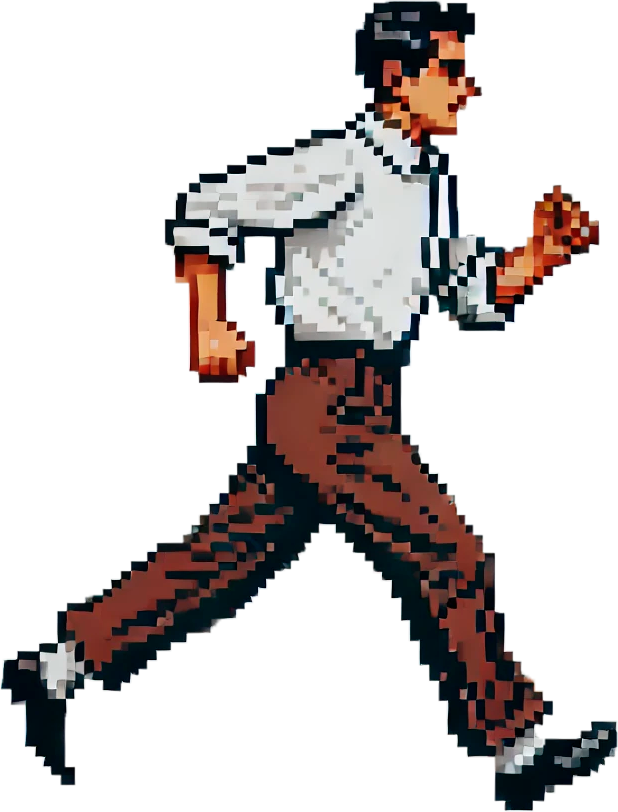
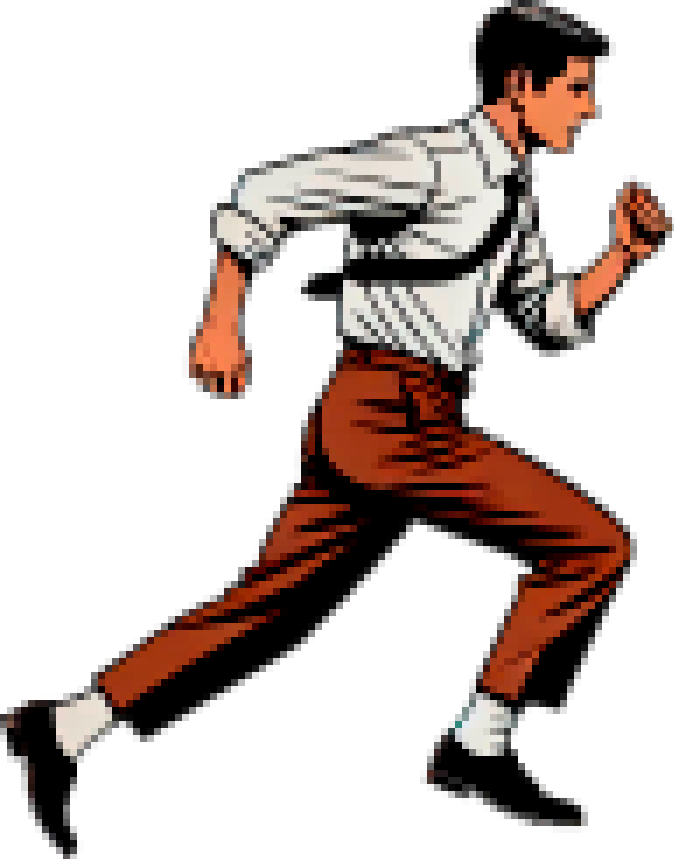
started code logic behind changing different sceneries of the game

diff --git a/javascript/games/game2.js b/javascript/games/game2.js
@@ -1,15 +1,19 @@
 /** game rules and scenery variables */
-let gameSpeed = 1, ms;
-let scenery = "subway";
+let gameSpeed = 1;
+let scenery = "subway", newScenery = "default";
+let fade = 0, fadeIn = true;
 let backgroundW, backgroundH, backgroundX, backgroundY;
 
-let floor_subway, floor_subway_bg, bg_subway;
+/** transitions between scenarios */
+let subwayX, subwayY, subwayW, subwayH;
+
+let floor_subway, floor_subway_bg, bg_front_subway, bg_subway;
 let floors = [];
 
 /** character variables */
 let charX, charY, charW, charH, charYDefault;
 let charSlidingH, charSlidingY;
-let char_running_R, char_sliding, char_mid_sliding, char_jumping; //images
+let char_running_R, char_running_M, char_running_L, char_sliding, char_mid_sliding, char_jumping; //images
 
 /** floor variables */
 let floorX, floorY, floorW, floorH, floorYPlacement;
@@ -21,15 +25,19 @@ let obstacles = [];
 /** movement keyboard variables */
 let startJumpCounter, endJumpCounter, howLongJump, jump = false, isHovering = false, isHoveringStart, isHoveringShouldEndShort = 15, isHoveringShouldEndLong = 35, isJumpingDown = false;
 let slide = false, startSlide, endSlide, timeOfSlide = 50;
+let runSwitch = true, runWhenSwitch = 15, runWhenSwitchStart, runWhenSwitchEnd, runningImages = 0;
 
 export function game2_preload() {
     char_running_R = loadImage('../images/games/characters/char_running_R.png');
+    char_running_M = loadImage('../images/games/characters/char_running_M.png');
+    char_running_L = loadImage('../images/games/characters/char_running_L.png');
     char_sliding = loadImage('../images/games/characters/char_sliding.png');
     char_mid_sliding = loadImage('../images/games/characters/char_mid_sliding.png');
     char_jumping = loadImage('../images/games/characters/char_jumping.png');
 
     floor_subway = loadImage('../images/games/scenery/floor_subway.png');
     floor_subway_bg = loadImage('../images/games/scenery/floor_subway_bg.png');
+    bg_front_subway = loadImage('../images/games/scenery/bg_front_subway.png');
     bg_subway = loadImage('../images/games/scenery/bg_subway_blurred.png');
 }
 
@@ -54,7 +62,7 @@ export function game2_setup() {
     charY = floorYPlacement - charH/2;
     charYDefault = charY;
 
-    charSlidingH = charH * 0.6;
+    charSlidingH = charH * 0.55;
     charSlidingY = floorYPlacement - charSlidingH/2;
 
     //* obstacle
@@ -63,19 +71,22 @@ export function game2_setup() {
     obsX = width*0.7;
     obsY = floorYPlacement - obsH/2;
 
-    //* game variables
-    ms = millis();
+    subwayH = height/1.7;
+    subwayW = (bg_front_subway.width*(subwayH))/bg_front_subway.height;
+    subwayX = width+subwayW/2;
+    subwayY = height-(subwayH)/2;
 
     imageMode(CENTER);
     rectMode(CENTER);
 }
 
 export function game2_draw() {
-    background('#aaffff')
+    noStroke();
+    background('#aaffff');
 
     //************ MOVEMENT and SCENERY */
     gameSpeed += 0.0001;
-    backgroundX -= 0.25;
+    backgroundX -= 0.25 * gameSpeed;
 
     /** BACKGROUND */
     image(bg_subway, /* img */
@@ -94,8 +105,6 @@ export function game2_draw() {
             }
         }
     }
-
-    console.log(floors);
     
     for (let i = floors.length - 1; i >= 0; i--) {
         floors[i].update();
@@ -107,14 +116,6 @@ export function game2_draw() {
             floors.push(new Floor((floors[floors.length-1].floorX + floorW), scenery));
         }
     }
-
-    // image(floor_subway, /* img */
-    //     floorX, floorY, /* x, y */
-    //     floorW, floorH) /* w, h */
-        
-    // image(floor_subway_bg, /* img */
-    //     floorX, floorY/2+floorH/2-((floor_subway_bg.height*floorW)/floor_subway_bg.width)/2, /* x, y */
-    //     floorW, (floor_subway_bg.height*floorW)/floor_subway_bg.width) /* w, h */
 
 
     //************ CHARACTER */
@@ -152,9 +153,36 @@ export function game2_draw() {
 
     /** when character is just running (default) */
     } else {
-        image(char_running_R, /* img */
-            charX, charYDefault, /* x, y */
-            (char_running_R.width * charH)/char_running_R.height, charH) /* w, h */
+        if (runSwitch) {
+            runSwitch = false;
+            runWhenSwitchStart = frameCount;    
+        } else {
+            runWhenSwitchEnd = frameCount
+            
+            if (runWhenSwitchEnd - runWhenSwitchStart >= runWhenSwitch) {
+                if (runningImages >= 3) {
+                    runningImages = 0;
+                } else {
+                    runningImages++;
+                }
+
+                runSwitch = true;
+            }
+        }
+
+        if (runningImages == 0) {
+            image(char_running_R, /* img */
+                charX, charYDefault, /* x, y */
+                (char_running_R.width * charH)/char_running_R.height, charH) /* w, h */
+        } else if (runningImages == 1 || runningImages == 3) {
+            image(char_running_M, /* img */
+                charX, charYDefault, /* x, y */
+                (char_running_M.width * charH)/char_running_M.height, charH) /* w, h */
+        } else {
+            image(char_running_L, /* img */
+                charX, charYDefault, /* x, y */
+                (char_running_L.width * charH)/char_running_L.height, charH) /* w, h */
+        }
     }
 
     //************ OBSTACLES */
@@ -171,6 +199,17 @@ export function game2_draw() {
         if (obstacles[i].offscreen()) {
             obstacles.splice(i, 1);
             obstacles.push(new Obstacle(gameSpeed, width, obsY, obsW, obsH));
+        }
+    }
+
+
+    //************ TRANSITIONS */
+    
+    if (((backgroundX + backgroundW)-width*0.8) <= width) {
+        newScenery = sceneryTransition(scenery);
+
+        if (newScenery != undefined) {
+            scenery = newScenery;    
         }
     }
 }
@@ -219,6 +258,38 @@ function charIsJumping(heightOfJump, hoveringEnd) {
                 jump = false;
             }
         }
+    }
+}
+
+function sceneryTransition(scenery) {
+    if (scenery == "subway") {
+        if (subwayX <= width*0.4) { /** when the middle of the subway reaches 60% of the screen */
+            fill(0, 0, 0, fade)
+            rect(width/2, height/2, width, height)
+
+            if (fade <= 255 && fadeIn) { /** black screen fades in and covers everything but the subway */
+                fade += 5
+            } else if (fade >= 250 || (!fadeIn && fade > 0)) {
+                fadeIn = false;
+                
+                scenery = "";
+                fade -= 5;
+            } else if (fade <= 0) {
+                if (subwayX + subwayW/2 < 0) { /** when the end of the subway is no longer visible */
+                    subwayX = width+subwayW/2; /* reset OG subway position for next time this scene comes */
+                    fadeIn = true;
+                    backgroundX = backgroundW/2; /** resets the initial position of the background for the following scene */
+                    return "Lisboa" /** changes to next scenery */ //* MUDAR PARA RANDOM!!!!!!!!!!!!!!!!!!!!!!!!!!!!!!!!!!!!!!!!!!!!!!!!!!!!!!!!!!!!!!!!!!!!!!!! */
+                }
+            }
+        }
+
+        /** subway appears to cover most elements on the screen */
+        image(bg_front_subway, /* img */
+            subwayX, subwayY, /* x, y */
+            subwayW, subwayH) /* w, h */   
+
+        subwayX -= 20 * gameSpeed;
     }
 }
 
